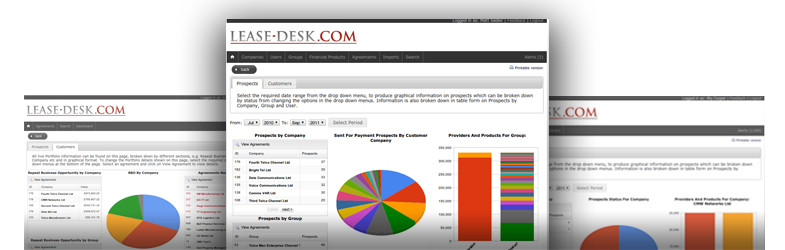
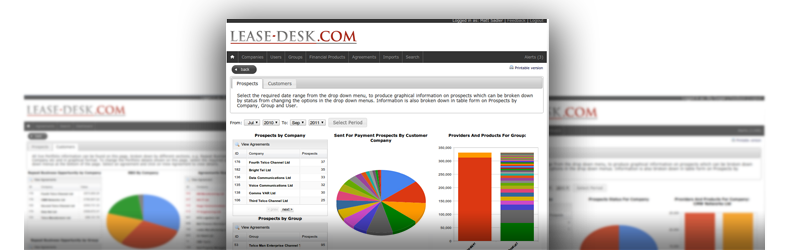
colour change

diff --git a/js/script.js b/js/script.js
@@ -203,7 +203,7 @@ $(function() {
 	    $('#mainbutton a').hover(function () {
 	        $(this).parent().animate({
 					
-					backgroundColor: "#d76863"
+					backgroundColor: "#b44640"
 					
 				}, 100 );
 			
@@ -211,7 +211,7 @@ $(function() {
 	    function () {
 	        $(this).parent().animate({
 					
-					backgroundColor: "#b44640"
+					backgroundColor: "#b0261f"
 					
 				}, 100 );
 			

diff --git a/css/template.css b/css/template.css
@@ -55,7 +55,7 @@ width:200px;
 height:185px;
 float:left;
 margin-right:10px;
-margin-top:5px;
+margin-top:0px;
 }
 .header {
 	
@@ -302,7 +302,7 @@ border-radius: 3px;
 -webkit-box-shadow: 0px 2px 3px #1C1A1A;
 box-shadow: 0px 2px 3px #1C1A1A;
 
-background:#b44640;
+background:#b0261f;
 
 }
 .sidebox a {

diff --git a/system/application/views/pages/dynamic.php b/system/application/views/pages/dynamic.php
@@ -1,14 +1,6 @@
 <?php foreach($content as $row):?>
-<img src="<?=base_url()?>images/titles/<?=$row['menu_title']?>.png" alt="<?=$row['title']?>"/>
-
-<?php if(isset($edit))
-{
-	echo " <a  style='float:right;' href='".base_url()."admin/edit/".$row['menu_title']."'><img width='16px' height='16px' alt='edit' src='".base_url()."images/icons/social/edit_16.png'></a>";
-}
-
-?>
-<div class="clear"></div>
-<?php if(isset($row['youtube']) && $row['youtube'] != '') {?>
+	
+	<?php if(isset($row['youtube']) && $row['youtube'] != '') {?>
 	
 	<div class="content_image">
 	
@@ -17,6 +9,16 @@
 	</div>
 
 <?php } ?>
+<img src="<?=base_url()?>images/titles/<?=$row['menu_title']?>.png" alt="<?=$row['title']?>"/>
+
+<?php if(isset($edit))
+{
+	echo " <a  style='float:right;' href='".base_url()."admin/edit/".$row['menu_title']."'><img width='16px' height='16px' alt='edit' src='".base_url()."images/icons/social/edit_16.png'></a>";
+}
+
+?>
+
+
 <p>
 <?=$row['content'];?>
 </p>
